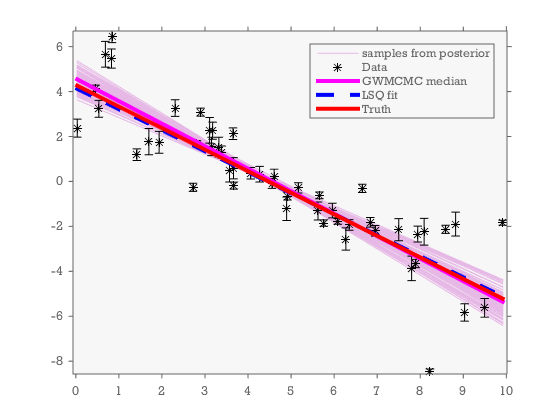
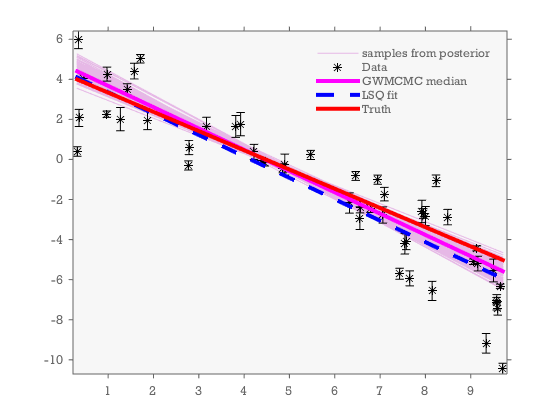
Further rearrangements of examples
fixed limits, reset random number generator before publishing examples.

diff --git a/html/linefit.html b/html/linefit.html
@@ -7,7 +7,7 @@
 html,body,div,span,applet,object,iframe,h1,h2,h3,h4,h5,h6,p,blockquote,pre,a,abbr,acronym,address,big,cite,code,del,dfn,em,font,img,ins,kbd,q,s,samp,small,strike,strong,sub,sup,tt,var,b,u,i,center,dl,dt,dd,ol,ul,li,fieldset,form,label,legend,table,caption,tbody,tfoot,thead,tr,th,td{margin:0;padding:0;border:0;outline:0;font-size:100%;vertical-align:baseline;background:transparent}body{line-height:1}ol,ul{list-style:none}blockquote,q{quotes:none}blockquote:before,blockquote:after,q:before,q:after{content:'';content:none}:focus{outine:0}ins{text-decoration:none}del{text-decoration:line-through}table{border-collapse:collapse;border-spacing:0}
 
 html { min-height:100%; margin-bottom:1px; }
-html body { height:100%; margin:0px; font-family:'Roboto Slab', Rockwell, serif; font-size:10pt; color:#222; line-height:140%; background:#fff none; overflow-y:scroll; }
+html body { height:100%; margin:0px; font-family:'Roboto Slab', Rockwell, serif; font-size:12px; color:#222; line-height:110%; background:#fff none; overflow-y:scroll; }
 html body td { vertical-align:top; text-align:left; }
 
 h1 { padding:0px; margin:0px 0px 25px; font-family:Rockwell, 'Roboto Slab', serif; font-size:1.5em; color:#d55000; line-height:100%; font-weight:normal; }
@@ -38,8 +38,8 @@ ol li ul li { list-style:square; }
 pre, code { font-size:12px; }
 tt { font-size: 1.2em; }
 pre { margin:0px 0px 20px; }
-pre.codeinput { padding:10px; border:1px solid #d3d3d3; background:#f7f7f7; }
-pre.codeoutput { padding:10px 11px; margin:0px 0px 20px; color:#4c4c4c; }
+pre.codeinput { padding:10px; border:1px solid #d3d3d3; background:#f7f7f7; line-height:100%; }
+pre.codeoutput { padding:10px 11px; margin:0px 0px 20px; color:#4c4c4c; line-height:100%;}
 pre.error { color:red; }
 
 @media print { pre.codeinput, pre.codeoutput { word-wrap:break-word; width:100%; } }
@@ -63,7 +63,7 @@ table td { padding:7px 5px; text-align:left; vertical-align:top; border:1px soli
 
 
 
-  </style><link href="http://fonts.googleapis.com/css?family=Roboto+Slab&amp;subset=latin,greek-ext,greek,latin-ext" rel="stylesheet" type="text/css"></head><body><div class="content"><h2>Contents</h2><div><ul><li><a href="#1">Fitting a line</a></li><li><a href="#2">Generate synthetic data</a></li><li><a href="#3">Least squares fit</a></li><li><a href="#4">Maximum likelihood estimate</a></li><li><a href="#5">prior information</a></li><li><a href="#6">Find the posterior distribution using GWMCMC</a></li></ul></div><h2>Fitting a line<a name="1"></a></h2><p>This demo follows the linefit example of EMCEE for python See full description here: <a href="http://dan.iel.fm/emcee/current/user/line/">http://dan.iel.fm/emcee/current/user/line/</a></p><p>This example is provided to compare with gwmcmc and emcee implementations.</p><pre class="codeinput">addpath <span class="string">..</span>  <span class="comment">%first we add the path of the toolbox folder</span>
+  </style><link href="http://fonts.googleapis.com/css?family=Roboto+Slab&amp;subset=latin,greek-ext,greek,latin-ext" rel="stylesheet" type="text/css"></head><body><div class="content"><h2>Fitting a line<a name="1"></a></h2><p>This demo follows the linefit example of EMCEE for python. See full description here: <a href="http://dan.iel.fm/emcee/current/user/line/">http://dan.iel.fm/emcee/current/user/line/</a></p><pre class="codeinput">addpath <span class="string">..</span>  <span class="comment">%first we add the path of the toolbox folder</span>
 </pre><h2>Generate synthetic data<a name="2"></a></h2><p>First we generate some noisy data which falls on a line. We know the true parameters of the line and the parameters of the noise added to the observations.</p><p>In this surrogate data there are two sources of uncertainty. One source with known variance (yerr), and another multiplicative uncertainty with unknown variance.</p><pre class="codeinput"><span class="comment">% This is the true model parameters used to generate the noise</span>
 m_true = [-0.9594;4.294;log(0.534)]
 
@@ -77,6 +77,7 @@ y = y + yerr .* randn(1,N);
 
 close <span class="string">all</span> <span class="comment">%close all figures</span>
 errorbar(x,y,yerr,<span class="string">'k*'</span>);
+axis <span class="string">tight</span>
 </pre><pre class="codeoutput">m_true =
       -0.9594
         4.294
@@ -87,13 +88,13 @@ m_lsq
 sigma_m_lsq
 
 hold <span class="string">on</span>
-plot(x,polyval(m_lsq,x),<span class="string">'b--'</span>)
+plot(x,polyval(m_lsq,x),<span class="string">'b--'</span>,<span class="string">'linewidth'</span>,3)
 </pre><pre class="codeoutput">m_lsq =
-     -0.93536
-       4.1537
+      -1.0692
+       4.4279
 sigma_m_lsq =
-      0.01191
-     0.071252
+     0.011028
+     0.076933
 </pre><img vspace="5" hspace="5" src="linefit_02.png" alt=""> <h2>Maximum likelihood estimate<a name="4"></a></h2><p>We define a likelihood function consistent with how the data was generated, and then we use fminsearch to find the max-likelihood fit of the model to the data.</p><pre class="codeinput"><span class="comment">% First we define a helper function equivalent to calling log(normpdf(x,mu,sigma))</span>
 <span class="comment">% but has higher precision because it avoids truncation errors associated with calling</span>
 <span class="comment">% log(exp(xxx)).</span>
@@ -108,24 +109,24 @@ logLike=@(m)sum(lognormpdf(y,forwardmodel(m),sqrt(variancemodel(m))));
 m_best=fminsearch(@(m)-logLike(m),[polyfit(x,y,1) 0]')
 
 hold <span class="string">on</span>
-plot(x,forwardmodel(m_best),<span class="string">'b'</span>)
+plot(x,forwardmodel(m_best),<span class="string">'m'</span>,<span class="string">'linewidth'</span>,3)
 
 legend(<span class="string">'Data'</span>,<span class="string">'LSQ fit'</span>,<span class="string">'MaxLike fit'</span>)
 </pre><pre class="codeoutput">m_best =
-     -0.99811
-        4.565
-      -0.6321
+      -1.0551
+       4.6843
+     -0.70182
 </pre><img vspace="5" hspace="5" src="linefit_03.png" alt=""> <h2>prior information<a name="5"></a></h2><p>Here we formulate our prior knowledge about the model parameters. Here we use flat priors within a strict range for each of the 3 model parameters.</p><pre class="codeinput">logprior =@(m) log( double((m(1)&gt;-5)&amp;&amp;(m(1)&lt;0.5) &amp;&amp; (m(2)&gt;0)&amp;&amp;(m(2)&lt;10) &amp;&amp; (m(3)&gt;-10)&amp;&amp;(m(3)&lt;1)) );
 </pre><h2>Find the posterior distribution using GWMCMC<a name="6"></a></h2><p>Now we apply the MCMC hammer to draw samples from the posterior.</p><pre class="codeinput"><span class="comment">% first we initialize the ensemble of walkers in a small gaussian ball</span>
 <span class="comment">% around the max-likelihood estimate.</span>
-minit=bsxfun(@plus,m_best,randn(3,100)*0.1);
+minit=bsxfun(@plus,m_best,randn(3,100)*0.01);
 
 <span class="comment">% Apply the hammer:</span>
 tic
 m=gwmcmc(minit,{logprior logLike},100000,<span class="string">'ThinChain'</span>,5);
 toc
 
-<span class="comment">%todo: more diagnose plots.</span>
+<span class="comment">%todo: more diagnostic plots.</span>
 
 <span class="comment">% TRACE plot</span>
 
@@ -158,15 +159,14 @@ axis <span class="string">tight</span>
 
 legend(h,<span class="string">'samples from posterior'</span>,<span class="string">'Data'</span>,<span class="string">'GWMCMC median'</span>,<span class="string">'LSQ fit'</span>,<span class="string">'Truth'</span>)
 </pre><pre class="codeoutput">
-Elapsed time is 4.497952 seconds.
+Elapsed time is 4.494156 seconds.
 </pre><img vspace="5" hspace="5" src="linefit_04.png" alt=""> <img vspace="5" hspace="5" src="linefit_05.png" alt=""> <p class="footer"><br><a href="http://www.mathworks.com/products/matlab/">Published with MATLAB&reg; R2014b</a><br></p></div><!--
 ##### SOURCE BEGIN #####
 %% Fitting a line
 %
-% This demo follows the linefit example of EMCEE for python
+% This demo follows the linefit example of EMCEE for python. 
 % See full description here: http://dan.iel.fm/emcee/current/user/line/
 % 
-% This example is provided to compare with gwmcmc and emcee implementations. 
 %
 
 addpath ..  %first we add the path of the toolbox folder 
@@ -181,6 +181,7 @@ addpath ..  %first we add the path of the toolbox folder
 % with known variance (yerr), and another multiplicative uncertainty with 
 % unknown variance. 
 
+
 % This is the true model parameters used to generate the noise 
 m_true = [-0.9594;4.294;log(0.534)]
 
@@ -194,6 +195,7 @@ y = y + yerr .* randn(1,N);
 
 close all %close all figures 
 errorbar(x,y,yerr,'k*');
+axis tight
 
 
 
@@ -211,7 +213,7 @@ m_lsq
 sigma_m_lsq
 
 hold on
-plot(x,polyval(m_lsq,x),'bREPLACE_WITH_DASH_DASH')
+plot(x,polyval(m_lsq,x),'bREPLACE_WITH_DASH_DASH','linewidth',3)
 
 
 %% Maximum likelihood estimate
@@ -234,7 +236,7 @@ logLike=@(m)sum(lognormpdf(y,forwardmodel(m),sqrt(variancemodel(m))));
 m_best=fminsearch(@(m)-logLike(m),[polyfit(x,y,1) 0]')
 
 hold on
-plot(x,forwardmodel(m_best),'b')
+plot(x,forwardmodel(m_best),'m','linewidth',3)
 
 legend('Data','LSQ fit','MaxLike fit')
 
@@ -254,14 +256,14 @@ logprior =@(m) log( double((m(1)>-5)&&(m(1)<0.5) && (m(2)>0)&&(m(2)<10) && (m(3)
 
 % first we initialize the ensemble of walkers in a small gaussian ball 
 % around the max-likelihood estimate. 
-minit=bsxfun(@plus,m_best,randn(3,100)*0.1);
+minit=bsxfun(@plus,m_best,randn(3,100)*0.01);
 
 % Apply the hammer:
 tic
 m=gwmcmc(minit,{logprior logLike},100000,'ThinChain',5);
 toc
 
-%todo: more diagnose plots. 
+%todo: more diagnostic plots. 
 
 % TRACE plot
 

diff --git a/html/rosenbrockbanana.html b/html/rosenbrockbanana.html
@@ -7,7 +7,7 @@
 html,body,div,span,applet,object,iframe,h1,h2,h3,h4,h5,h6,p,blockquote,pre,a,abbr,acronym,address,big,cite,code,del,dfn,em,font,img,ins,kbd,q,s,samp,small,strike,strong,sub,sup,tt,var,b,u,i,center,dl,dt,dd,ol,ul,li,fieldset,form,label,legend,table,caption,tbody,tfoot,thead,tr,th,td{margin:0;padding:0;border:0;outline:0;font-size:100%;vertical-align:baseline;background:transparent}body{line-height:1}ol,ul{list-style:none}blockquote,q{quotes:none}blockquote:before,blockquote:after,q:before,q:after{content:'';content:none}:focus{outine:0}ins{text-decoration:none}del{text-decoration:line-through}table{border-collapse:collapse;border-spacing:0}
 
 html { min-height:100%; margin-bottom:1px; }
-html body { height:100%; margin:0px; font-family:'Roboto Slab', Rockwell, serif; font-size:10pt; color:#222; line-height:140%; background:#fff none; overflow-y:scroll; }
+html body { height:100%; margin:0px; font-family:'Roboto Slab', Rockwell, serif; font-size:12px; color:#222; line-height:110%; background:#fff none; overflow-y:scroll; }
 html body td { vertical-align:top; text-align:left; }
 
 h1 { padding:0px; margin:0px 0px 25px; font-family:Rockwell, 'Roboto Slab', serif; font-size:1.5em; color:#d55000; line-height:100%; font-weight:normal; }
@@ -38,8 +38,8 @@ ol li ul li { list-style:square; }
 pre, code { font-size:12px; }
 tt { font-size: 1.2em; }
 pre { margin:0px 0px 20px; }
-pre.codeinput { padding:10px; border:1px solid #d3d3d3; background:#f7f7f7; }
-pre.codeoutput { padding:10px 11px; margin:0px 0px 20px; color:#4c4c4c; }
+pre.codeinput { padding:10px; border:1px solid #d3d3d3; background:#f7f7f7; line-height:100%; }
+pre.codeoutput { padding:10px 11px; margin:0px 0px 20px; color:#4c4c4c; line-height:100%;}
 pre.error { color:red; }
 
 @media print { pre.codeinput, pre.codeoutput { word-wrap:break-word; width:100%; } }
@@ -63,16 +63,18 @@ table td { padding:7px 5px; text-align:left; vertical-align:top; border:1px soli
 
 
 
-  </style><link href="http://fonts.googleapis.com/css?family=Roboto+Slab&amp;subset=latin,greek-ext,greek,latin-ext" rel="stylesheet" type="text/css"></head><body><div class="content"><h2>Contents</h2><div><ul><li><a href="#1">The MCMC hammer</a></li><li><a href="#2">Rosenbrock: A badly scaled example</a></li><li><a href="#3">Apply the MCMC hammer:</a></li><li><a href="#4">References:</a></li></ul></div><h2>The MCMC hammer<a name="1"></a></h2><p>GWMCMC is an implementation of the Goodman and Weare 2010 Affine invariant ensemble Markov Chain Monte Carlo (MCMC) sampler. MCMC sampling enables bayesian inference. The problem with many traditional MCMC samplers is that they can have slow convergence for badly scaled problems, and that it is difficult to optimize the random walk for high-dimensional problems. This is where the GW-algorithm really excels as it is affine invariant. It can achieve much better convergence on badly scaled problems. It is much simpler to get to work straight out of the box, and for that reason it truly deserves to be called the MCMC hammer.</p><p>See also: <a href="http://astrobites.org/2012/02/20/code-you-can-use-the-mcmc-hammer/">http://astrobites.org/2012/02/20/code-you-can-use-the-mcmc-hammer/</a></p><pre class="codeinput">addpath <span class="string">..</span> <span class="comment">%first we add the path of the toolbox folder</span>
+  </style><link href="http://fonts.googleapis.com/css?family=Roboto+Slab&amp;subset=latin,greek-ext,greek,latin-ext" rel="stylesheet" type="text/css"></head><body><div class="content"><h2>The MCMC hammer<a name="1"></a></h2><p>GWMCMC is an implementation of the Goodman and Weare 2010 Affine invariant ensemble Markov Chain Monte Carlo (MCMC) sampler. MCMC sampling enables bayesian inference. The problem with many traditional MCMC samplers is that they can have slow convergence for badly scaled problems, and that it is difficult to optimize the random walk for high-dimensional problems. This is where the GW-algorithm really excels as it is affine invariant. It can achieve much better convergence on badly scaled problems. It is much simpler to get to work straight out of the box, and for that reason it truly deserves to be called the MCMC hammer.</p><p>See also: <a href="http://astrobites.org/2012/02/20/code-you-can-use-the-mcmc-hammer/">http://astrobites.org/2012/02/20/code-you-can-use-the-mcmc-hammer/</a></p><pre class="codeinput">addpath <span class="string">..</span> <span class="comment">%first we add the path of the toolbox folder</span>
 </pre><h2>Rosenbrock: A badly scaled example<a name="2"></a></h2><p>A classical difficult low dimensional problem is the rosenbrock density. It is defined by the following log-probability function:</p><pre class="codeinput">logPfun=@(m) -(100*(m(2,:)-m(1,:).^2).^2 +(1-m(1,:)).^2)/20;
 
 <span class="comment">%lets visualize it:</span>
 close <span class="string">all</span>
-[X,Y]=meshgrid(-4:.01:6,-1:.02:30);
+[X,Y]=meshgrid(-4:.01:6,-1:.02:34);
 Z=logPfun([X(:) Y(:)]'); Z=reshape(Z,size(X));
 contour(X,Y,exp(Z))
 colormap(parula)
-title(<span class="string">'The Rosenbrock banana density.'</span>)
+title(<span class="string">'The Rosenbrock banana'</span>)
+xlim([-4 6])
+ylim([-1 34])
 </pre><img vspace="5" hspace="5" src="rosenbrockbanana_01.png" alt=""> <h2>Apply the MCMC hammer:<a name="3"></a></h2><p>Now we apply the Goodman &amp; Weare MCMC sampler and plot the results on top</p><pre class="codeinput">M=2; <span class="comment">%number of model parameters</span>
 Nwalkers=40; <span class="comment">%number of walkers/chains.</span>
 minit=randn(M,Nwalkers);
@@ -92,11 +94,10 @@ models=models(:,:);
 hold <span class="string">on</span>
 plot(models(1,:),models(2,:),<span class="string">'k.'</span>)
 
-
 legend(<span class="string">'Rosenbrock'</span>,<span class="string">'GWMCMC samples'</span>,<span class="string">'location'</span>,<span class="string">'northwest'</span>)
 </pre><pre class="codeoutput">
-Elapsed time is 2.136573 seconds.
-</pre><img vspace="5" hspace="5" src="rosenbrockbanana_02.png" alt=""> <h2>References:<a name="4"></a></h2><p>Goodman &amp; Weare (2010), Ensemble Samplers With Affine Invariance,    Comm. App. Math. Comp. Sci., Vol. 5, No. 1, 65&#8211;80 Foreman-Mackey, Hogg, Lang, Goodman (2013), emcee: The MCMC Hammer,    arXiv:1202.3665</p><p>-Aslak Grinsted 2015</p><p class="footer"><br><a href="http://www.mathworks.com/products/matlab/">Published with MATLAB&reg; R2014b</a><br></p></div><!--
+Elapsed time is 2.158804 seconds.
+</pre><img vspace="5" hspace="5" src="rosenbrockbanana_02.png" alt=""> <h2>References:<a name="4"></a></h2><div><ul><li>Goodman &amp; Weare (2010), Ensemble Samplers With Affine Invariance, Comm. App. Math. Comp. Sci., Vol. 5, No. 1, 65&#8211;80</li><li>Foreman-Mackey, Hogg, Lang, Goodman (2013), emcee: The MCMC Hammer, arXiv:1202.3665</li></ul></div><p>-Aslak Grinsted 2015</p><p class="footer"><br><a href="http://www.mathworks.com/products/matlab/">Published with MATLAB&reg; R2014b</a><br></p></div><!--
 ##### SOURCE BEGIN #####
 %% The MCMC hammer
 %
@@ -126,11 +127,13 @@ logPfun=@(m) -(100*(m(2,:)-m(1,:).^2).^2 +(1-m(1,:)).^2)/20;
 
 %lets visualize it:
 close all
-[X,Y]=meshgrid(-4:.01:6,-1:.02:30);
+[X,Y]=meshgrid(-4:.01:6,-1:.02:34);
 Z=logPfun([X(:) Y(:)]'); Z=reshape(Z,size(X));
 contour(X,Y,exp(Z))
 colormap(parula)
-title('The Rosenbrock banana density.')
+title('The Rosenbrock banana')
+xlim([-4 6])
+ylim([-1 34])
 
 %% Apply the MCMC hammer:
 % 
@@ -156,16 +159,13 @@ models=models(:,:);
 hold on
 plot(models(1,:),models(2,:),'k.')
 
-
 legend('Rosenbrock','GWMCMC samples','location','northwest')
 
 
 
 %% References:
-% Goodman & Weare (2010), Ensemble Samplers With Affine Invariance,
-%    Comm. App. Math. Comp. Sci., Vol. 5, No. 1, 65–80
-% Foreman-Mackey, Hogg, Lang, Goodman (2013), emcee: The MCMC Hammer,
-%    arXiv:1202.3665
+% * Goodman & Weare (2010), Ensemble Samplers With Affine Invariance, Comm. App. Math. Comp. Sci., Vol. 5, No. 1, 65–80
+% * Foreman-Mackey, Hogg, Lang, Goodman (2013), emcee: The MCMC Hammer, arXiv:1202.3665
 % 
 % -Aslak Grinsted 2015
 

diff --git a/examples/linefit.m b/examples/linefit.m
@@ -1,9 +1,8 @@
 %% Fitting a line
 %
-% This demo follows the linefit example of EMCEE for python
+% This demo follows the linefit example of EMCEE for python. 
 % See full description here: http://dan.iel.fm/emcee/current/user/line/
 % 
-% This example is provided to compare with gwmcmc and emcee implementations. 
 %
 
 addpath ..  %first we add the path of the toolbox folder 
@@ -17,6 +16,7 @@ addpath ..  %first we add the path of the toolbox folder
 % In this surrogate data there are two sources of uncertainty. One source
 % with known variance (yerr), and another multiplicative uncertainty with 
 % unknown variance. 
+
 
 % This is the true model parameters used to generate the noise 
 m_true = [-0.9594;4.294;log(0.534)]
@@ -49,7 +49,7 @@ m_lsq
 sigma_m_lsq
 
 hold on
-plot(x,polyval(m_lsq,x),'b--')
+plot(x,polyval(m_lsq,x),'b--','linewidth',3)
 
 
 %% Maximum likelihood estimate
@@ -72,7 +72,7 @@ logLike=@(m)sum(lognormpdf(y,forwardmodel(m),sqrt(variancemodel(m))));
 m_best=fminsearch(@(m)-logLike(m),[polyfit(x,y,1) 0]')
 
 hold on
-plot(x,forwardmodel(m_best),'b')
+plot(x,forwardmodel(m_best),'m','linewidth',3)
 
 legend('Data','LSQ fit','MaxLike fit')
 
@@ -92,14 +92,14 @@ logprior =@(m) log( double((m(1)>-5)&&(m(1)<0.5) && (m(2)>0)&&(m(2)<10) && (m(3)
 
 % first we initialize the ensemble of walkers in a small gaussian ball 
 % around the max-likelihood estimate. 
-minit=bsxfun(@plus,m_best,randn(3,100)*0.1);
+minit=bsxfun(@plus,m_best,randn(3,100)*0.01);
 
 % Apply the hammer:
 tic
 m=gwmcmc(minit,{logprior logLike},100000,'ThinChain',5);
 toc
 
-%todo: more diagnose plots. 
+%todo: more diagnostic plots. 
 
 % TRACE plot
 
